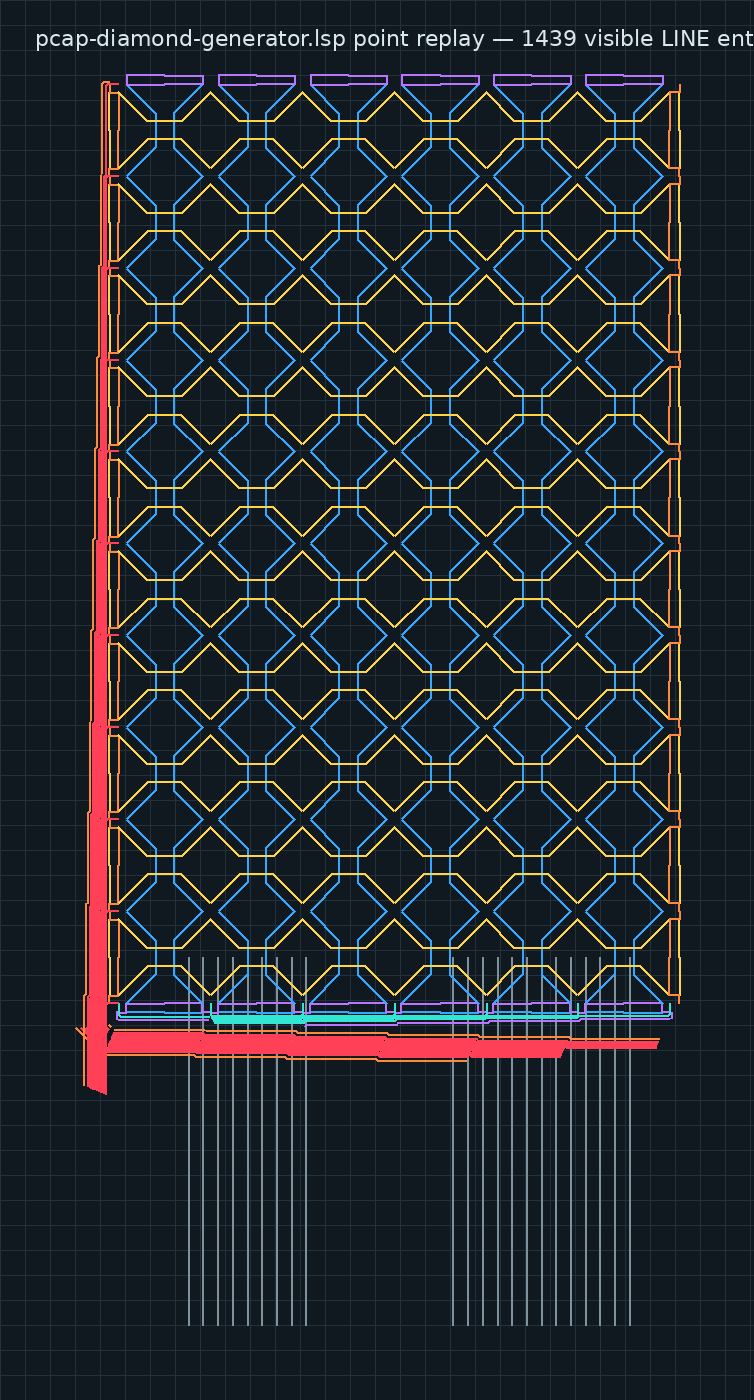
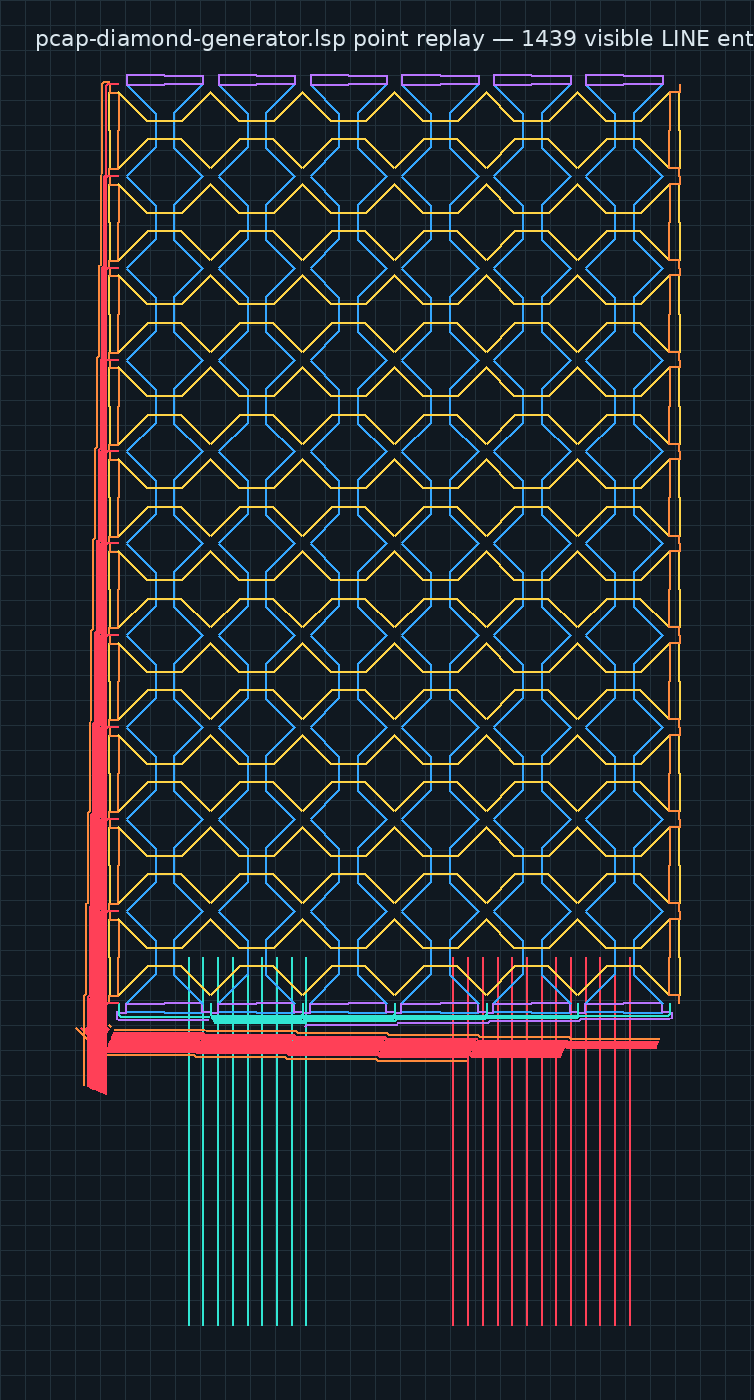
Correct pin layers and add layer-isolated previews

diff --git a/tools/render_lsp_preview.py b/tools/render_lsp_preview.py
@@ -408,8 +408,10 @@ COLORS = {
 }
 
 
-def render_png(replay: Replay, output: Path, label: str):
-    visible = [line for line in replay.lines if line["layer"].lower() != "cache"]
+def render_png(replay: Replay, output: Path, label: str, allowed_layers=None):
+    visible = [line for line in replay.lines
+               if line["layer"].lower() != "cache"
+               and (allowed_layers is None or line["layer"] in allowed_layers)]
     xs = [p for line in visible for p in (line["a"][0], line["b"][0])]
     ys = [p for line in visible for p in (line["a"][1], line["b"][1])]
     min_x, max_x, min_y, max_y = min(xs), max(xs), min(ys), max(ys)
@@ -449,6 +451,13 @@ def main():
     png = root / f"{stem}.png"
     dxf.write_text(dxf_text(replay), encoding="ascii")
     render_png(replay, png, source.name)
+    if source.name == "pcap-diamond-generator.lsp":
+        render_png(replay, root / "pcap-sensor-electrodes-preview.png", source.name,
+                   {"Top ITO", "Bottom ITO"})
+        render_png(replay, root / "pcap-sensor-ag-routing-preview.png", source.name,
+                   {"Top Ag", "Bottom Ag"})
+        render_png(replay, root / "pcap-sensor-laser-preview.png", source.name,
+                   {"Top laser", "Bottom laser"})
     counts = {}
     for line in replay.lines:
         counts[line["layer"]] = counts.get(line["layer"], 0) + 1

diff --git a/README.md b/README.md
@@ -48,6 +48,9 @@ Default pitch is 5 mm. It is only an editable starting point, not a production r
 The checked reference uses TX 10, RX 6, 5-unit pitch, 1.0 neck, 0.6 gap, 0.1 route spacing and 0.8 pin pitch:
 
 - [`pcap-sensor-corrected-preview.png`](pcap-sensor-corrected-preview.png)
+- [`pcap-sensor-electrodes-preview.png`](pcap-sensor-electrodes-preview.png)
+- [`pcap-sensor-ag-routing-preview.png`](pcap-sensor-ag-routing-preview.png)
+- [`pcap-sensor-laser-preview.png`](pcap-sensor-laser-preview.png)
 - `pcap-sensor-corrected-preview.dxf` is generated locally and intentionally ignored by Git.
 
 Regenerate both files without AutoCAD:
